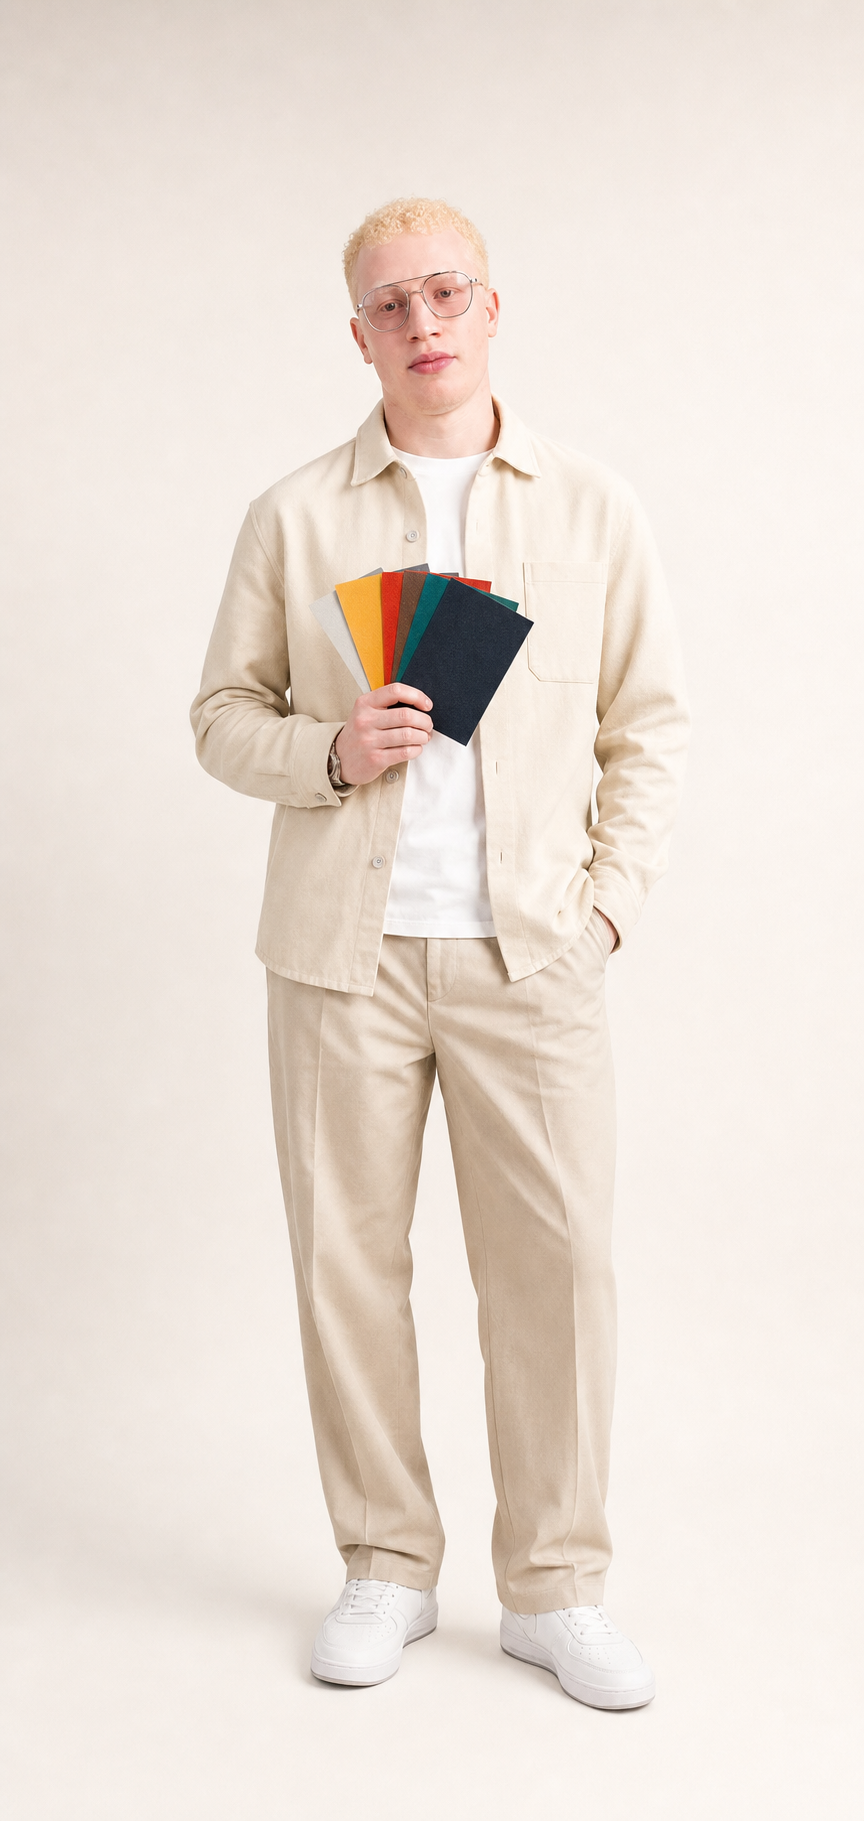
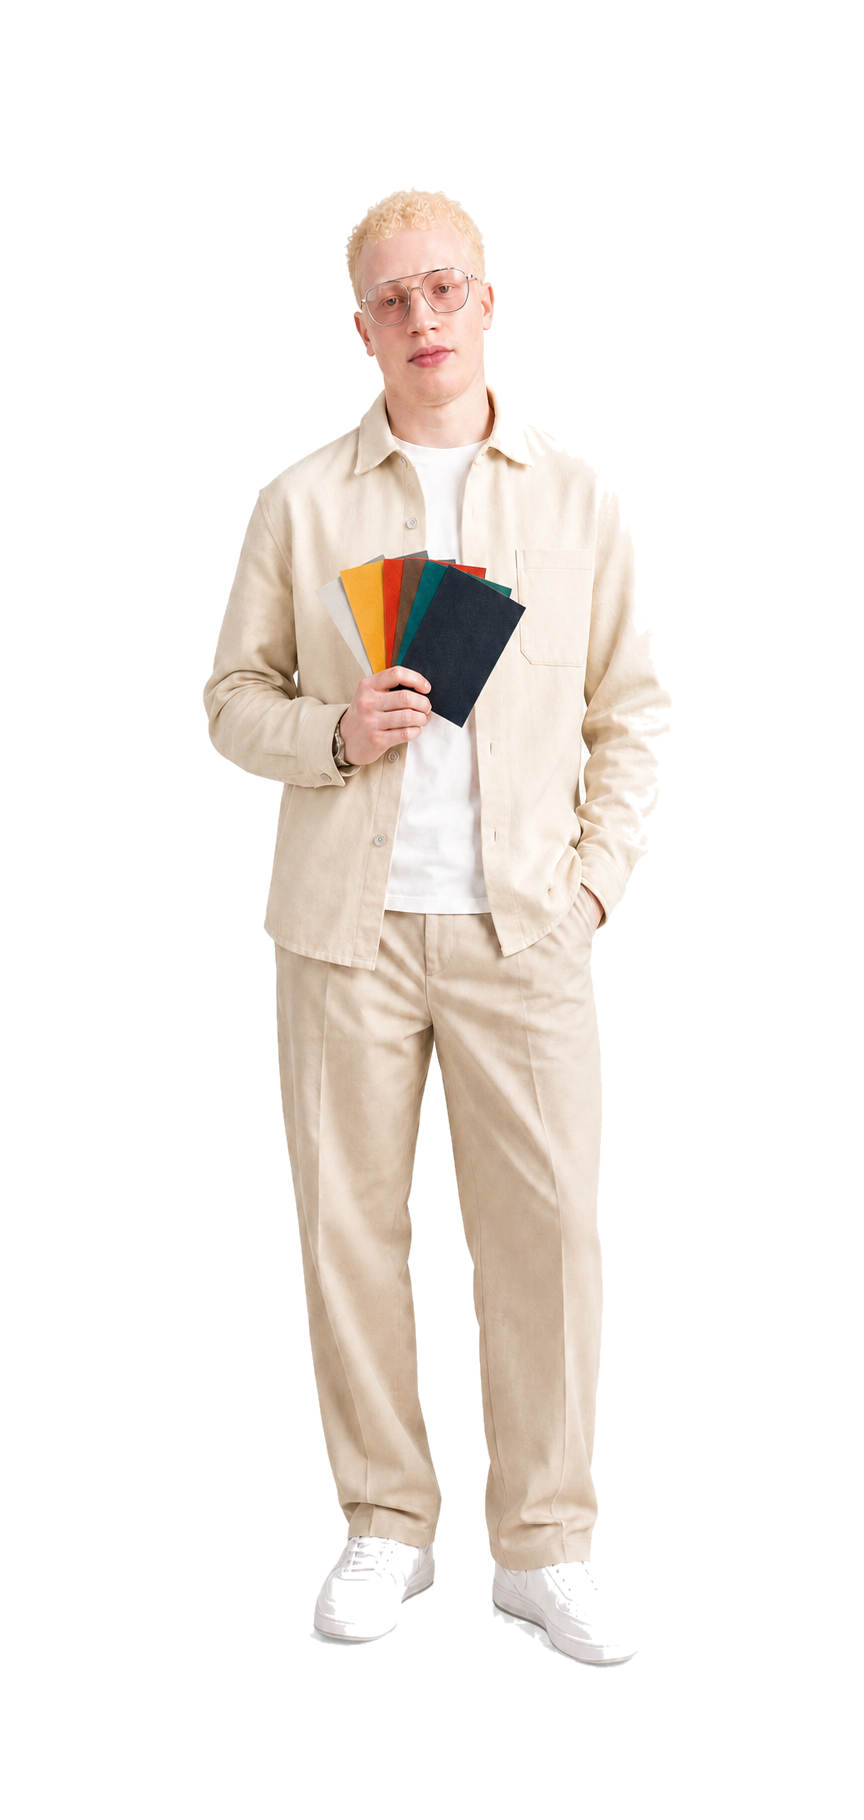
Refine portrait cutouts and add role ticker

diff --git a/app/globals.css b/app/globals.css
@@ -6,14 +6,16 @@ html { scroll-behavior:smooth; }
 body { margin:0; background:var(--paper); color:var(--ink); font-family:var(--font-geist-sans), Arial, sans-serif; }
 a { color:inherit; text-decoration:none; }
 button { font:inherit; }
-main { overflow:hidden; }
+main { overflow:clip; }
 .arabic {
   --font-geist-sans:var(--font-rubik);
   --font-geist-mono:var(--font-rubik);
   font-family:var(--font-rubik), Arial, sans-serif;
 }
 
-.topbar { height:78px; padding:0 3vw; display:flex; align-items:center; gap:16px; border-bottom:1px solid var(--line); letter-spacing:.08em; font-size:11px; font-weight:700; text-transform:uppercase; position:relative; z-index:10; }
+.topbar { height:78px; padding:0 3vw; display:flex; align-items:center; gap:16px; border-bottom:1px solid color-mix(in srgb,var(--ink) 24%,transparent); letter-spacing:.08em; font-size:11px; font-weight:700; text-transform:uppercase; position:sticky; top:0; z-index:50; background:color-mix(in srgb,var(--paper) 88%,transparent); backdrop-filter:blur(16px); }
+.scroll-progress { position:absolute; inset:auto 0 -1px; height:3px; background:linear-gradient(90deg,var(--orange),var(--pink),var(--blue),var(--acid)); transform:scaleX(0); transform-origin:left center; }
+.arabic .scroll-progress { transform-origin:right center; }
 .brand { white-space:nowrap; }
 .status-dot { display:inline-block; width:7px; height:7px; border-radius:50%; background:#69e48f; margin-inline-start:7px; box-shadow:0 0 0 3px rgba(105,228,143,.16); }
 .available { color:#777077; margin-inline-end:auto; }
@@ -21,48 +23,73 @@ main { overflow:hidden; }
 .topbar nav a { position:relative; }
 .topbar nav a::after { content:""; position:absolute; inset:auto 0 -5px; height:1px; background:var(--ink); transform:scaleX(0); transition:.25s; }
 .topbar nav a:hover::after { transform:scaleX(1); }
-.language { border:1px solid var(--ink); border-radius:999px; background:transparent; padding:8px 13px; cursor:pointer; text-transform:none; }
+.language { border:1px solid var(--ink); border-radius:999px; background:transparent; padding:8px 13px; cursor:pointer; text-transform:none; transition:background .25s,color .25s,box-shadow .25s; }
+.language:hover { background:var(--ink); color:var(--acid); box-shadow:3px 3px 0 var(--orange); }
 
 .hero { min-height:1100px; position:relative; padding:95px 3vw 0; text-align:center; border-bottom:1px solid var(--line); }
 .eyebrow,.kicker { font-family:var(--font-geist-mono), monospace; font-size:11px; letter-spacing:.14em; text-transform:uppercase; }
 .hero h1 { font-size:clamp(48px,6.3vw,104px); letter-spacing:-.068em; line-height:.95; font-weight:500; max-width:1100px; margin:22px auto 24px; }
+.hero-line { display:inline-block; transform-origin:left bottom; }
+.hero-highlight { display:inline-block; position:relative; isolation:isolate; padding:0 .04em; font-weight:700; background:linear-gradient(var(--acid),var(--acid)) 0 92%/100% 28% no-repeat; box-decoration-break:clone; -webkit-box-decoration-break:clone; }
 .hero h1 em,.contact h2 em { font-family:Georgia, serif; font-weight:400; }
 .hero-sub { max-width:620px; margin:0 auto 37px; font-size:17px; line-height:1.6; color:#605b61; }
-.oval-link { display:inline-flex; min-width:205px; justify-content:center; padding:14px 24px 13px; border:1px solid var(--ink); border-radius:50%; font-size:11px; font-weight:700; letter-spacing:.18em; transform:rotate(-1deg); transition:.2s; }
-.oval-link:hover { background:var(--ink); color:white; transform:rotate(1deg) scale(1.03); }
+.oval-link { display:inline-flex; min-width:205px; justify-content:center; padding:14px 24px 13px; border:1px solid var(--ink); border-radius:50%; font-size:11px; font-weight:700; letter-spacing:.18em; transform:rotate(-1deg); transition:background .25s,color .25s,box-shadow .25s; }
+.oval-link:hover { background:var(--ink); color:var(--acid); box-shadow:5px 5px 0 var(--orange); }
 .orbit-dot { position:absolute; border-radius:50%; background:var(--ink); }
 .dot-a { width:12px;height:12px;top:170px;right:14%; }.dot-b { width:5px;height:5px;top:245px;left:18%; }.dot-c { width:9px;height:9px;top:405px;right:28%; background:var(--orange); }
 
-.role-grid { max-width:1320px; margin:62px auto 0; display:grid; grid-template-columns:repeat(4,1fr); align-items:end; position:relative; z-index:2; }
-.role-card { min-height:500px; position:relative; display:flex; flex-direction:column; align-items:center; justify-content:flex-end; padding:0 14px 22px; border-inline-end:1px solid var(--line); overflow:hidden; }
+.role-ticker { width:calc(100% + 6vw); margin:62px 0 0 -3vw; overflow:hidden; border-top:1px solid var(--ink); border-bottom:1px solid var(--ink); background:var(--acid); transform:rotate(-1deg); }
+.role-ticker>div { width:max-content; display:flex; animation:role-ticker 24s linear infinite; }
+.role-ticker span { display:flex; align-items:center; gap:28px; padding:14px 28px; font:italic 700 clamp(24px,3vw,42px) Georgia,serif; white-space:nowrap; }
+.role-ticker i { font:normal 16px var(--font-geist-sans); }
+@keyframes role-ticker { to { transform:translateX(-50%); } }
+.arabic .role-ticker>div { animation-direction:reverse; }
+.role-grid { max-width:1320px; margin:32px auto 0; display:grid; grid-template-columns:repeat(4,1fr); align-items:end; position:relative; z-index:2; }
+.role-card { min-height:525px; position:relative; display:flex; flex-direction:column; align-items:center; justify-content:flex-end; padding:0 14px 22px; border-inline-end:1px solid var(--line); overflow:hidden; background:var(--paper); }
 .role-card:last-child { border-inline-end:0; }
 .role-count { position:absolute; top:0; inset-inline-start:20px; font:10px var(--font-geist-mono); color:#8b858a; }
-.role-image { width:100%; height:385px; object-fit:cover; object-position:center 12%; mix-blend-mode:multiply; transition:transform .35s cubic-bezier(.2,.8,.2,1); }
+.role-image { width:100%; height:420px; object-fit:contain; object-position:center bottom; transition:transform .35s cubic-bezier(.2,.8,.2,1); }
 .role-card:hover .role-image { transform:translateY(-10px) scale(1.025); }
 .orange { --accent:var(--orange); color:var(--accent); }.yellow { --accent:#e9d91c; color:var(--accent); }.pink { --accent:var(--pink); color:var(--accent); }.blue { --accent:var(--blue); color:var(--accent); }
 .role-card h2 { position:relative; z-index:6; margin:0; padding:5px 18px; color:var(--ink); font:italic 700 35px Georgia,serif; background:var(--accent); filter:drop-shadow(2px 3px 0 rgba(0,0,0,.12)); transform:rotate(-4deg); }
 .role-card h2::first-line { color:var(--ink); }
 .role-card p { color:#686168; margin:17px 0 0; font:10px var(--font-geist-mono); text-transform:uppercase; letter-spacing:.08em; }
+.role-card { transition:transform .3s cubic-bezier(.2,.8,.2,1),background .3s; }
+.role-card:hover { transform:translateY(-9px); background:color-mix(in srgb,var(--accent) 12%,transparent); }
+.role-card:hover h2 { transform:rotate(0deg) scale(1.06); }
+.role-card h2 { transition:transform .3s cubic-bezier(.2,.8,.2,1); }
 
 .founder-profile { display:grid; grid-template-columns:minmax(360px,.9fr) 1.1fr; gap:8vw; padding:130px 7vw; background:#e8e1d7; align-items:center; border-bottom:1px solid var(--ink); }
-.founder-photo-wrap { position:relative; transform:rotate(-1.5deg); }
-.founder-photo { display:block; width:100%; aspect-ratio:4/5; object-fit:cover; object-position:center 20%; filter:saturate(.75) contrast(1.05); box-shadow:14px 14px 0 var(--ink); }
+.founder-photo-wrap { position:relative; transform:rotate(-1.5deg); transition:transform .55s cubic-bezier(.16,1,.3,1); }
+.founder-photo { display:block; width:100%; aspect-ratio:4/5; object-fit:cover; object-position:center 20%; filter:saturate(.75) contrast(1.05); box-shadow:14px 14px 0 var(--ink); transition:filter .55s,transform .55s cubic-bezier(.16,1,.3,1),box-shadow .55s; }
+.founder-photo-wrap:hover { transform:rotate(0deg); }
+.founder-photo-wrap:hover .founder-photo { transform:scale(1.018); filter:saturate(1) contrast(1.03); box-shadow:8px 8px 0 var(--orange); }
 .photo-stamp { position:absolute; right:-24px; bottom:24px; background:var(--acid); color:var(--ink); padding:10px 16px; font:10px var(--font-geist-mono); letter-spacing:.12em; transform:rotate(4deg); }
+.photo-doodle { position:absolute; width:43%; right:-17%; top:-12%; overflow:visible; pointer-events:none; }
+.photo-doodle path,.photo-doodle circle { fill:none; stroke:var(--blue); stroke-width:2; stroke-dasharray:7 7; transition:stroke-dashoffset .8s,transform .5s; transform-origin:center; }
+.founder-photo-wrap:hover .photo-doodle path { stroke-dashoffset:56; }
+.founder-photo-wrap:hover .photo-doodle circle { transform:scale(1.8); fill:var(--pink); stroke:none; }
 .founder-copy .kicker { margin-top:50px; }
 .founder-copy h2 { max-width:760px; font-size:clamp(44px,5.3vw,82px); line-height:.98; letter-spacing:-.06em; font-weight:500; margin:20px 0 32px; }
 .founder-body { max-width:680px; font-size:18px; line-height:1.7; color:#514b50; }
 .founder-note { font:11px var(--font-geist-mono); margin:28px 0; text-transform:uppercase; letter-spacing:.1em; }
 .founder-facts { display:grid; grid-template-columns:1fr 1fr; border-top:1px solid #aaa19a; }
 .founder-facts span { padding:15px 4px; border-bottom:1px solid #aaa19a; font-size:13px; }
+.founder-facts span { transition:padding .25s,background .25s; }
+.founder-facts span:hover { padding-inline:12px; background:rgba(255,255,255,.42); }
 
 .thesis { display:grid; grid-template-columns:1fr 2.2fr 1.15fr; gap:7vw; padding:130px 4vw; min-height:690px; align-items:start; }
 .section-number { font:10px var(--font-geist-mono); letter-spacing:.12em; color:#6b656c; text-transform:uppercase; }
 .thesis-copy h2,.journey-heading h2,.capability-intro h2 { font-size:clamp(40px,5vw,76px); line-height:1.02; letter-spacing:-.055em; font-weight:500; margin:22px 0 30px; }
 .thesis-copy>p:last-child { max-width:680px; color:#5b565c; font-size:18px; line-height:1.65; }
-.quote-card { background:var(--acid); padding:35px; font:italic 30px/1.2 Georgia,serif; transform:rotate(2deg); box-shadow:9px 9px 0 var(--ink); margin-top:90px; }
+.quote-card { background:var(--acid); padding:35px; font:italic 30px/1.2 Georgia,serif; transform:rotate(2deg); box-shadow:9px 9px 0 var(--ink); margin-top:90px; transition:transform .4s cubic-bezier(.16,1,.3,1),box-shadow .4s; }
+.quote-card:hover { transform:rotate(0deg) translateY(-7px); box-shadow:14px 14px 0 var(--blue); }
 .quote-card span { display:block; font-size:70px; line-height:.6; margin-bottom:20px; }
 
-.journey { background:var(--ink); color:var(--paper); padding:120px 4vw; }
+.journey { background:var(--ink); color:var(--paper); padding:120px 4vw; position:relative; overflow:hidden; }
+.journey>*:not(.section-orbit) { position:relative; z-index:1; }
+.section-orbit { position:absolute; width:min(62vw,760px); right:-15vw; top:-22vw; opacity:.18; pointer-events:none; }
+.section-orbit circle,.section-orbit path { fill:none; stroke:var(--acid); stroke-width:1; stroke-dasharray:5 12; }
 .journey .section-number { color:#a49da4; }
 .journey-heading { display:grid; grid-template-columns:1fr 3fr; align-items:start; margin-bottom:70px; }
 .journey-heading h2 { margin:0; max-width:900px; }
@@ -73,6 +100,8 @@ main { overflow:hidden; }
 .step>span { font:12px var(--font-geist-mono); color:var(--acid); }
 .step h3 { font-size:24px; letter-spacing:-.03em; margin:55px 0 18px; }
 .step p { color:#bcb5bc; line-height:1.65; font-size:15px; }
+.step { transition:background .25s,transform .25s; }
+.step:hover { background:linear-gradient(180deg,transparent,rgba(215,255,67,.07)); transform:translateY(-7px); }
 
 .projects { padding:120px 4vw 130px; background:#fff; }
 .projects-heading { display:grid; grid-template-columns:1fr 3fr; gap:30px; margin-bottom:70px; }
@@ -90,30 +119,52 @@ main { overflow:hidden; }
 .project-card>p { min-height:76px; line-height:1.55; font-size:14px; max-width:420px; }
 .project-tags { display:flex; flex-wrap:wrap; gap:7px; margin-top:20px; }
 .project-tags span { border:1px solid currentColor; border-radius:999px; padding:7px 10px; font:9px var(--font-geist-mono); text-transform:uppercase; }
+.project-tags span { transition:background .2s,color .2s,transform .2s; }
+.project-tags span:hover { background:var(--ink); color:white; transform:translateY(-3px); }
 
 .capabilities { display:grid; grid-template-columns:1.05fr 1.35fr; gap:9vw; padding:120px 4vw; position:relative; }
 .capability-intro { position:sticky; top:40px; align-self:start; }
 .capability-intro p { color:#666066; font-size:17px; }
 .capability-list { border-top:1px solid var(--ink); }
-.capability-list div { display:grid; grid-template-columns:55px 1fr auto; align-items:center; padding:19px 4px; border-bottom:1px solid var(--line); font-size:21px; }
+.capability-list div { display:grid; grid-template-columns:55px 1fr auto; align-items:center; padding:19px 4px; border-bottom:1px solid var(--line); font-size:21px; transition:padding .25s,background .25s; }
+.capability-list div:hover { padding-inline:16px; background:var(--acid); }
 .capability-list span { font:10px var(--font-geist-mono); color:#888188; }
 .capability-list i { font-style:normal; font-size:17px; transition:transform .2s; }
 .capability-list div:hover i { transform:translate(4px,-4px); }
 .stack { grid-column:1/-1; display:flex; align-items:center; gap:35px; border-top:1px solid var(--line); margin-top:40px; padding-top:25px; }
 .stack span { font:10px var(--font-geist-mono); letter-spacing:.14em; }.stack p { font-size:clamp(17px,2vw,28px); margin:0; }
+.stack p { transition:color .25s,transform .25s; }
+.stack:hover p { color:var(--blue); transform:translateX(8px); }
+.arabic .stack:hover p { transform:translateX(-8px); }
 
-.brands { background:#e6ded2; padding:110px 4vw; display:grid; grid-template-columns:.8fr 1.2fr; gap:8vw; align-items:start; border-top:1px solid var(--ink); border-bottom:1px solid var(--ink); }
+.brands { background:#e6ded2; padding:110px 4vw; display:grid; grid-template-columns:.72fr 1.45fr; gap:6vw; align-items:center; border-top:1px solid var(--ink); border-bottom:1px solid var(--ink); position:relative; overflow:hidden; }
 .brands-copy h2 { font-size:clamp(38px,4.5vw,68px); line-height:1; letter-spacing:-.05em; font-weight:500; max-width:640px; margin:20px 0; }
-.brand-wall { display:grid; grid-template-columns:repeat(3,1fr); border-top:1px solid var(--ink); border-left:1px solid var(--ink); }
-.brand-wall span { min-height:100px; display:flex; align-items:center; justify-content:center; text-align:center; border-right:1px solid var(--ink); border-bottom:1px solid var(--ink); font-weight:750; font-size:clamp(13px,1.5vw,20px); letter-spacing:-.03em; }
-.brand-wall .brand-accent { background:var(--ink); color:var(--paper); }
+.brand-wall { display:grid; grid-template-columns:repeat(6,1fr); grid-auto-rows:72px; grid-auto-flow:dense; gap:7px; position:relative; z-index:1; }
+.brand-wall span { min-height:0; display:flex; align-items:center; justify-content:center; text-align:center; border:1px solid rgba(23,19,26,.55); border-radius:5px; padding:10px; font-weight:800; font-size:clamp(10px,1.1vw,15px); letter-spacing:-.03em; transition:transform .28s cubic-bezier(.16,1,.3,1),box-shadow .28s,filter .28s; }
+.brand-wall span:hover { transform:translateY(-6px) rotate(-1deg) scale(1.025); box-shadow:7px 7px 0 var(--ink); filter:saturate(1.12); z-index:3; }
+.brand-tile-1,.brand-tile-6 { grid-column:span 2; grid-row:span 2; }
+.brand-tile-2,.brand-tile-3,.brand-tile-5,.brand-tile-7,.brand-tile-10,.brand-tile-11,.brand-tile-14,.brand-tile-15,.brand-tile-16 { grid-column:span 2; }
+.brand-tile-4,.brand-tile-8,.brand-tile-9,.brand-tile-12,.brand-tile-13,.brand-tile-17,.brand-tile-18 { grid-column:span 1; }
+.brand-tile-1,.brand-tile-8,.brand-tile-15 { background:var(--acid); }
+.brand-tile-2,.brand-tile-9,.brand-tile-13 { background:var(--orange); }
+.brand-tile-3,.brand-tile-11,.brand-tile-18 { background:var(--pink); }
+.brand-tile-4,.brand-tile-10,.brand-tile-17 { background:var(--blue); color:white; }
+.brand-tile-5 { background:#b7a4ff; }
+.brand-tile-6,.brand-tile-16 { background:var(--ink); color:var(--paper); }
+.brand-tile-7,.brand-tile-14 { background:#8de1c1; }
+.brand-tile-12 { background:#fff8e8; }
+.mosaic-scribble { position:absolute; width:30vw; left:12vw; bottom:-25px; opacity:.32; pointer-events:none; }
+.mosaic-scribble path { fill:none; stroke:var(--blue); stroke-width:5; stroke-linecap:round; stroke-dasharray:11 12; }
 
 .contact { min-height:720px; padding:120px 4vw 80px; background:var(--blue); color:white; display:flex; flex-direction:column; align-items:center; justify-content:center; text-align:center; position:relative; }
 .contact::before,.contact::after { content:""; position:absolute; border-radius:50%; border:1px solid rgba(255,255,255,.5); }.contact::before{width:530px;height:530px;left:-240px;top:80px}.contact::after{width:300px;height:300px;right:-120px;bottom:-80px}
 .contact h2 { font-size:clamp(56px,8.6vw,135px); letter-spacing:-.07em; line-height:.86; font-weight:500; margin:30px 0; position:relative; z-index:1; }
 .contact>p:not(.kicker) { max-width:560px; line-height:1.6; color:#dadfff; position:relative; z-index:1; }
-.contact-button { margin-top:32px; min-width:250px; display:flex; justify-content:space-between; background:var(--acid); color:var(--ink); padding:19px 22px; font-weight:700; text-transform:uppercase; font-size:12px; letter-spacing:.08em; position:relative; z-index:1; transition:.2s; }
-.contact-button:hover { transform:translateY(-4px); box-shadow:7px 7px 0 var(--ink); }
+.contact-button { margin-top:32px; min-width:250px; display:flex; justify-content:space-between; background:var(--acid); color:var(--ink); padding:19px 22px; font-weight:700; text-transform:uppercase; font-size:12px; letter-spacing:.08em; position:relative; z-index:1; transition:box-shadow .25s,color .25s; overflow:hidden; clip-path:polygon(0 0,calc(100% - 13px) 0,100% 13px,100% 100%,13px 100%,0 calc(100% - 13px)); }
+.contact-button::before { content:""; position:absolute; inset:0; background:linear-gradient(110deg,transparent 25%,rgba(255,255,255,.8) 45%,transparent 65%); transform:translateX(-130%); transition:transform .55s; }
+.contact-button>* { position:relative; z-index:1; }
+.contact-button:hover { color:#08080b; box-shadow:8px 8px 0 var(--ink),-4px -4px 0 var(--pink); }
+.contact-button:hover::before { transform:translateX(130%); }
 footer { min-height:80px; padding:0 4vw; display:flex; align-items:center; justify-content:space-between; gap:20px; font:10px var(--font-geist-mono); letter-spacing:.08em; text-transform:uppercase; }
 
 .arabic .hero h1,.arabic .founder-copy h2,.arabic .thesis-copy h2,.arabic .journey-heading h2,.arabic .projects-heading h2,.arabic .capability-intro h2,.arabic .brands-copy h2,.arabic .contact h2 { letter-spacing:-.035em; }
@@ -123,21 +174,21 @@ footer { min-height:80px; padding:0 4vw; display:flex; align-items:center; justi
 @media (max-width:900px) {
   .topbar { height:auto; min-height:70px; flex-wrap:wrap; padding:18px 22px; }.available{display:none}.topbar nav{width:100%;justify-content:space-between;gap:10px;overflow:auto}.topbar nav a{font-size:9px}
   .hero { padding:65px 20px 0; min-height:auto; }.hero h1{font-size:clamp(48px,12vw,78px)}.hero-sub{font-size:15px}.orbit-dot{display:none}
-  .role-grid { grid-template-columns:repeat(2,1fr); margin-top:55px; }.role-card{min-height:460px;border-bottom:1px solid var(--line)}.role-image{height:350px}
+  .role-ticker{margin-top:52px}.role-grid { grid-template-columns:repeat(2,1fr); margin-top:24px; }.role-card{min-height:480px;border-bottom:1px solid var(--line)}.role-image{height:375px}
   .founder-profile { grid-template-columns:1fr; padding:90px 8vw; }.founder-photo-wrap{max-width:600px}.founder-copy .kicker{margin-top:30px}
   .thesis { grid-template-columns:1fr; padding:90px 25px; gap:25px; }.quote-card{margin-top:20px;max-width:430px}
   .journey { padding:90px 25px; }.journey-heading{grid-template-columns:1fr;gap:30px}.steps{grid-template-columns:1fr 1fr}.step:nth-child(2){border-inline-end:0}.step{border-bottom:1px solid #494249}
   .projects{padding:90px 25px}.projects-heading{grid-template-columns:1fr}.project-grid{grid-template-columns:1fr}.project-card{min-height:480px}
   .capabilities { grid-template-columns:1fr; padding:90px 25px; }.capability-intro{position:static}.stack{grid-column:auto;align-items:flex-start;flex-direction:column;gap:12px}
-  .brands{grid-template-columns:1fr;padding:90px 25px}.brand-wall{margin-top:20px}
+  .brands{grid-template-columns:1fr;padding:90px 25px}.brand-wall{margin-top:20px;grid-auto-rows:68px}
 }
 @media (max-width:560px) {
   .topbar nav a:nth-child(4){display:none}.topbar{font-size:10px}.language{padding:6px 10px}
-  .hero{padding-inline:16px}.hero h1{font-size:45px}.hero-sub{font-size:14px}.role-grid{grid-template-columns:1fr 1fr}.role-card{min-height:355px;padding-inline:2px}.role-image{height:260px}.role-card h2{font-size:24px;padding-inline:10px}.role-card p{font-size:8px}.role-count{inset-inline-start:8px}
+  .hero{padding-inline:16px}.hero h1{font-size:45px}.hero-sub{font-size:14px}.role-ticker{width:calc(100% + 32px);margin-left:-16px}.role-ticker span{padding:10px 18px;gap:18px;font-size:23px}.role-grid{grid-template-columns:1fr 1fr}.role-card{min-height:390px;padding-inline:2px}.role-image{height:295px}.role-card h2{font-size:24px;padding-inline:10px}.role-card p{font-size:8px}.role-count{inset-inline-start:8px}
   .founder-profile{padding:70px 20px}.founder-copy h2{font-size:42px}.founder-body{font-size:16px}.founder-facts{grid-template-columns:1fr}.photo-stamp{right:-5px}
   .thesis-copy h2,.journey-heading h2,.capability-intro h2{font-size:40px}.quote-card{font-size:24px}
   .steps{grid-template-columns:1fr}.step,.step+.step{padding:25px 0;border-inline-end:0}.step h3{margin-top:30px}.capability-list div{font-size:17px;grid-template-columns:38px 1fr auto}
-  .projects-heading h2{font-size:45px}.project-card{min-height:450px}.brand-wall{grid-template-columns:1fr 1fr}.brand-wall span{min-height:82px;font-size:12px}
+  .projects-heading h2{font-size:45px}.project-card{min-height:450px}.brand-wall{grid-template-columns:1fr 1fr;grid-auto-rows:72px}.brand-wall .brand-tile{grid-column:span 1;grid-row:span 1;min-height:72px;font-size:11px}.brand-wall .brand-tile:nth-child(5n+1){grid-column:span 2}.mosaic-scribble{width:70vw;left:-10vw}
   .contact{min-height:620px;padding-inline:20px}.contact h2{font-size:55px}footer{flex-wrap:wrap;justify-content:center;padding:25px 15px}
 }
-@media (prefers-reduced-motion:reduce){html{scroll-behavior:auto}*{transition:none!important}}
+@media (prefers-reduced-motion:reduce){html{scroll-behavior:auto}*{transition:none!important}.role-ticker>div{animation-play-state:paused}}

diff --git a/app/page.tsx b/app/page.tsx
@@ -146,6 +146,9 @@ export default function Home() {
         <a href="#about" className="oval-link" data-magnetic>{t.pick}</a>
         <div className="orbit-dot dot-a" /><div className="orbit-dot dot-b" /><div className="orbit-dot dot-c" />
 
+        <div className="role-ticker" aria-hidden="true">
+          <div>{[...t.roles, ...t.roles].map((role, index) => <span key={`${role.title}-${index}`}>{role.title}<i>✦</i></span>)}</div>
+        </div>
         <div className="role-grid" aria-label="Ahmed's roles">
           {t.roles.map((role, index) => (
             <article className={`role-card ${role.className}`} key={role.title}>
@@ -225,7 +228,7 @@ export default function Home() {
 
       <section className="capabilities" id="capabilities">
         <div className="capability-intro" data-reveal>
-          <div className="section-number">03 — CAPABILITIES</div>
+          <div className="section-number">04 — CAPABILITIES</div>
           <h2>{t.capabilitiesTitle}</h2>
           <p>{t.capabilitiesSub}</p>
         </div>
